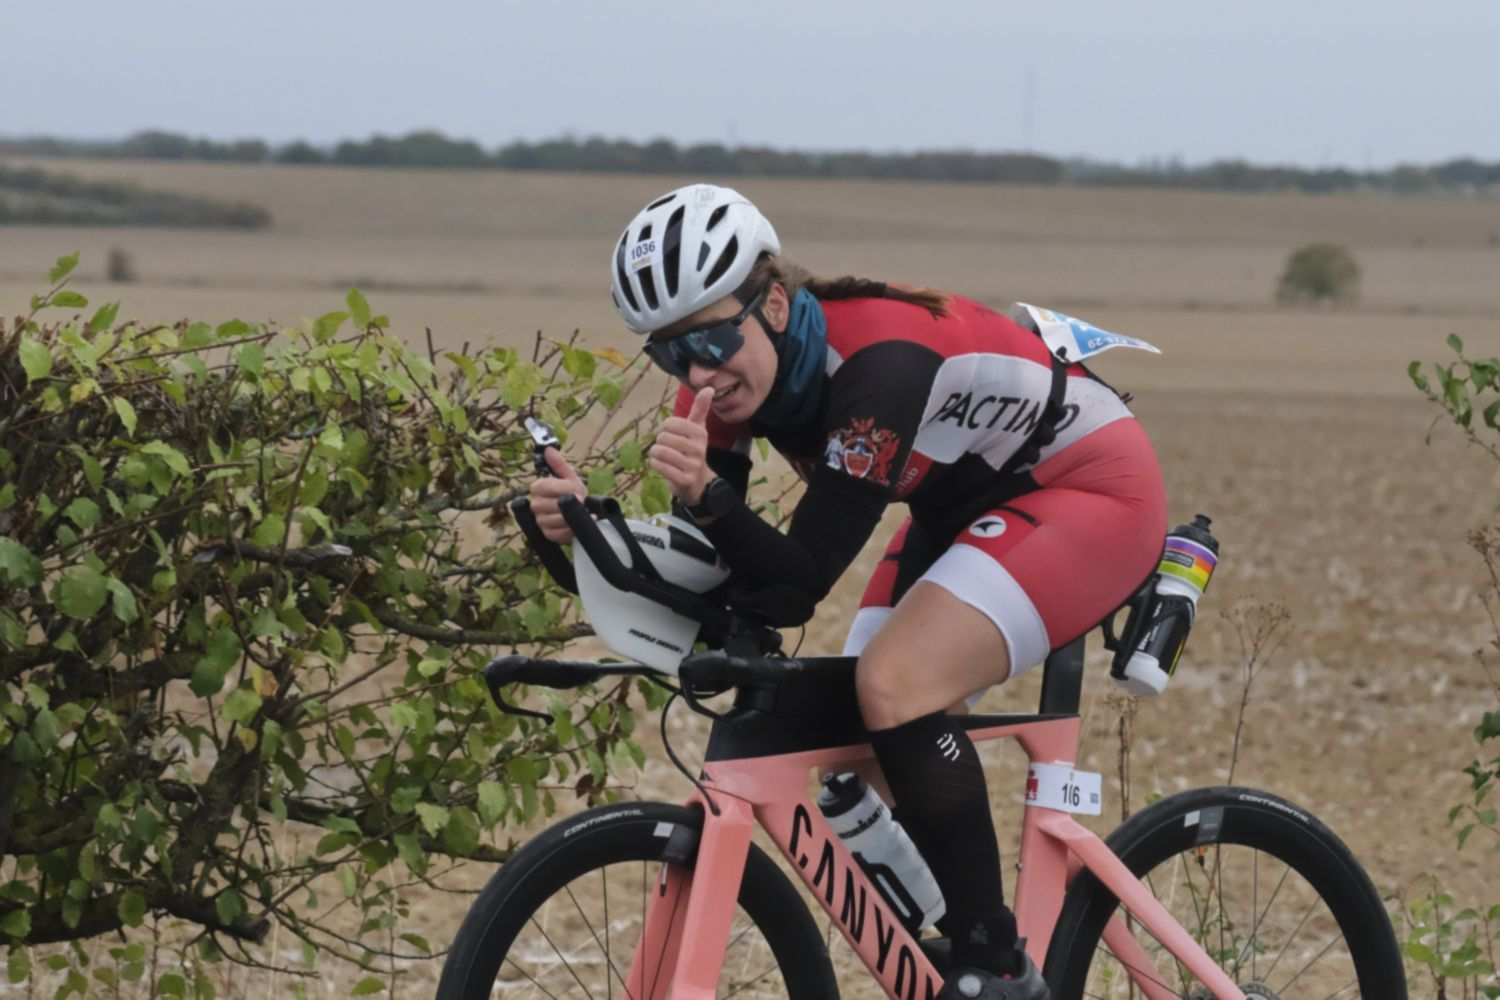
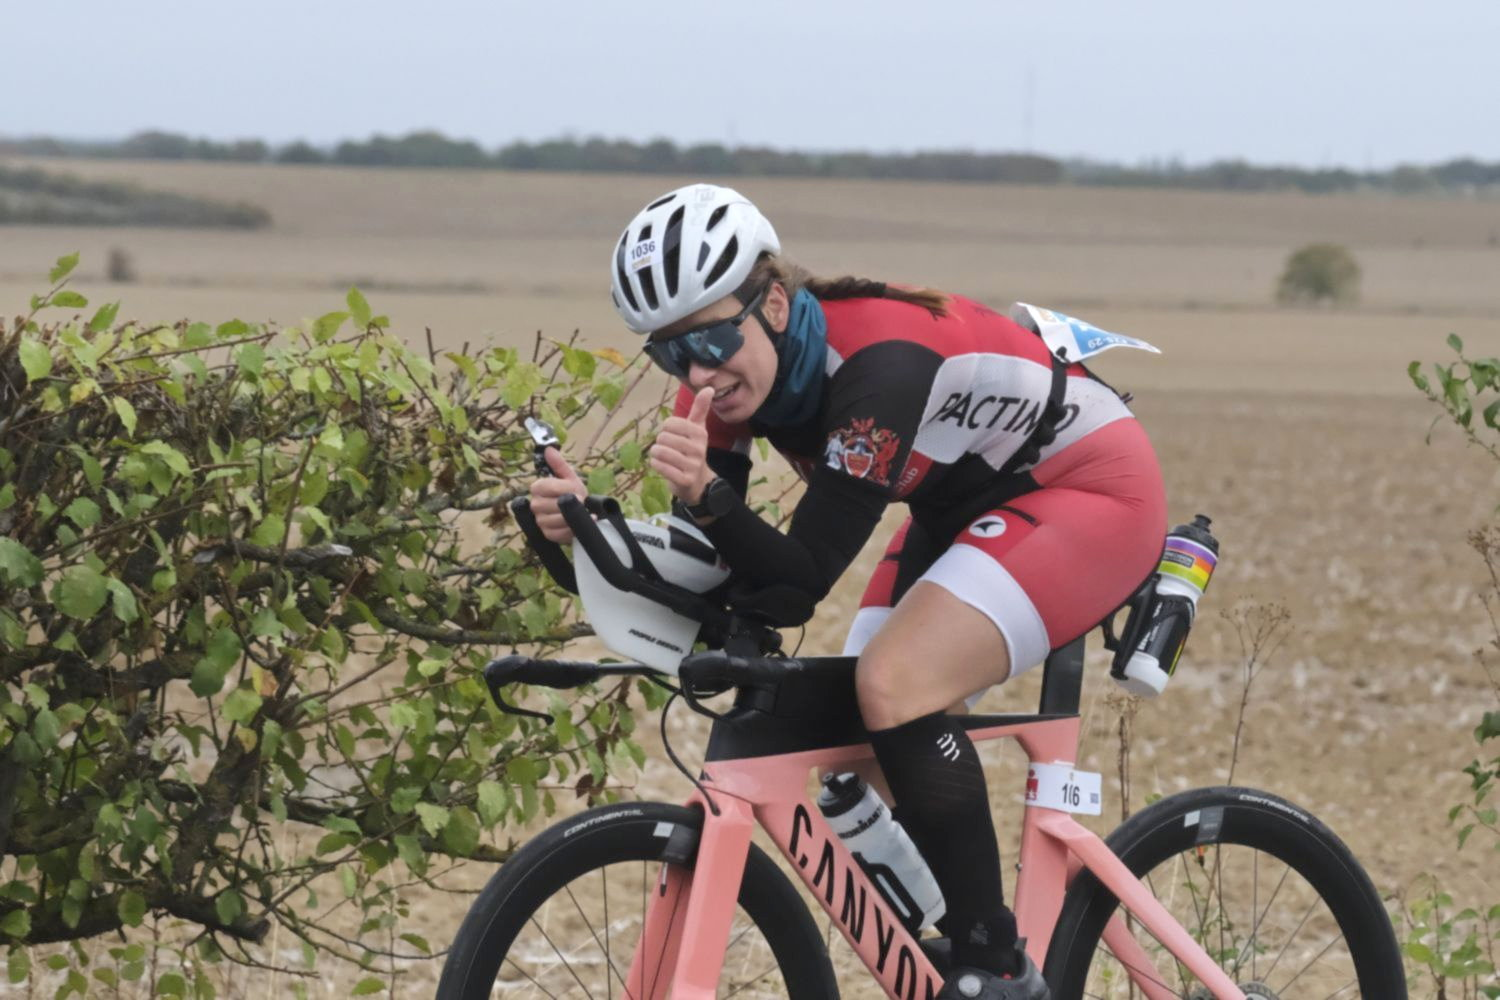
Ajout album mon-album

diff --git a/public/ironwoman/index.html b/public/ironwoman/index.html
@@ -31,7 +31,7 @@
   
 
 
-  <meta property="og:image" content="http://localhost:1313/photojm/ironwoman/20261011%200921%20ironman%20molieres%20_DSF6111_hu_6cb728f59232df73.JPG" />
+  <meta property="og:image" content="http://localhost:1313/photojm/ironwoman/20261011%200921%20ironman%20molieres%20_DSF6111_hu_a074653231ff9492.JPG" />
   
   <link rel="stylesheet" href="/photojm/css/main.min.6031f18919a5919243f3aef7c58df672be3052a45dd4517b8fc728761fda4de4.css" />
   
@@ -123,9 +123,9 @@
       
       
       
-      <a class="gallery-item" href="/photojm/ironwoman/20261011%200921%20ironman%20molieres%20_DSF6111.JPG" data-pswp-src="/photojm/ironwoman/20261011%200921%20ironman%20molieres%20_DSF6111_hu_6cb728f59232df73.JPG" data-pswp-width="1500" data-pswp-height="1000" data-pswp-target="20261011-0921-ironman-molieres-_dsf6111.jpg" title="" itemscope itemtype="https://schema.org/ImageObject" style="aspect-ratio: 600 / 400">
-        <figure style="background-color: #383936; aspect-ratio: 600 / 400">
-          <img class="lazyload" width="600" height="400" data-src="/photojm/ironwoman/20261011%200921%20ironman%20molieres%20_DSF6111_hu_e92e26575bcb6b7e.JPG" alt="" />
+      <a class="gallery-item" href="/photojm/ironwoman/20261011%200921%20ironman%20molieres%20_DSF6111.JPG" data-pswp-src="/photojm/ironwoman/20261011%200921%20ironman%20molieres%20_DSF6111_hu_a074653231ff9492.JPG" data-pswp-width="1500" data-pswp-height="1000" data-pswp-target="20261011-0921-ironman-molieres-_dsf6111.jpg" title="" itemscope itemtype="https://schema.org/ImageObject" style="aspect-ratio: 600 / 400">
+        <figure style="background-color: #3e3f3d; aspect-ratio: 600 / 400">
+          <img class="lazyload" width="600" height="400" data-src="/photojm/ironwoman/20261011%200921%20ironman%20molieres%20_DSF6111_hu_d86dc09688b511cb.JPG" alt="" />
         </figure>
         <meta itemprop="contentUrl" content="/photojm/ironwoman/20261011%200921%20ironman%20molieres%20_DSF6111.JPG" />
         
@@ -135,9 +135,9 @@
       
       
       
-      <a class="gallery-item" href="/photojm/ironwoman/20261011%200946%20ironman%20molieres%20_DSF6168.JPG" data-pswp-src="/photojm/ironwoman/20261011%200946%20ironman%20molieres%20_DSF6168_hu_5cfcc33a455e756.JPG" data-pswp-width="1500" data-pswp-height="1000" data-pswp-target="20261011-0946-ironman-molieres-_dsf6168.jpg" title="" itemscope itemtype="https://schema.org/ImageObject" style="aspect-ratio: 600 / 400">
-        <figure style="background-color: #383739; aspect-ratio: 600 / 400">
-          <img class="lazyload" width="600" height="400" data-src="/photojm/ironwoman/20261011%200946%20ironman%20molieres%20_DSF6168_hu_36d18c74547d44af.JPG" alt="" />
+      <a class="gallery-item" href="/photojm/ironwoman/20261011%200946%20ironman%20molieres%20_DSF6168.JPG" data-pswp-src="/photojm/ironwoman/20261011%200946%20ironman%20molieres%20_DSF6168_hu_2db0fdb0e8911fc3.JPG" data-pswp-width="1500" data-pswp-height="1000" data-pswp-target="20261011-0946-ironman-molieres-_dsf6168.jpg" title="" itemscope itemtype="https://schema.org/ImageObject" style="aspect-ratio: 600 / 400">
+        <figure style="background-color: #c8c5c0; aspect-ratio: 600 / 400">
+          <img class="lazyload" width="600" height="400" data-src="/photojm/ironwoman/20261011%200946%20ironman%20molieres%20_DSF6168_hu_d7f02c6c44e40be.JPG" alt="" />
         </figure>
         <meta itemprop="contentUrl" content="/photojm/ironwoman/20261011%200946%20ironman%20molieres%20_DSF6168.JPG" />
         
@@ -159,9 +159,9 @@
       
       
       
-      <a class="gallery-item" href="/photojm/ironwoman/20261011%200950%20ironman%20molieres%20_DSF6179.JPG" data-pswp-src="/photojm/ironwoman/20261011%200950%20ironman%20molieres%20_DSF6179_hu_eb26d63f47e49dbe.JPG" data-pswp-width="1000" data-pswp-height="1500" data-pswp-target="20261011-0950-ironman-molieres-_dsf6179.jpg" title="" itemscope itemtype="https://schema.org/ImageObject" style="aspect-ratio: 400 / 600">
-        <figure style="background-color: #5f6058; aspect-ratio: 400 / 600">
-          <img class="lazyload" width="400" height="600" data-src="/photojm/ironwoman/20261011%200950%20ironman%20molieres%20_DSF6179_hu_fa6df166ac8f167b.JPG" alt="" />
+      <a class="gallery-item" href="/photojm/ironwoman/20261011%200950%20ironman%20molieres%20_DSF6179.JPG" data-pswp-src="/photojm/ironwoman/20261011%200950%20ironman%20molieres%20_DSF6179_hu_a2a75d422234f429.JPG" data-pswp-width="1000" data-pswp-height="1500" data-pswp-target="20261011-0950-ironman-molieres-_dsf6179.jpg" title="" itemscope itemtype="https://schema.org/ImageObject" style="aspect-ratio: 400 / 600">
+        <figure style="background-color: #9d9a98; aspect-ratio: 400 / 600">
+          <img class="lazyload" width="400" height="600" data-src="/photojm/ironwoman/20261011%200950%20ironman%20molieres%20_DSF6179_hu_757b8cec4b55d5b4.JPG" alt="" />
         </figure>
         <meta itemprop="contentUrl" content="/photojm/ironwoman/20261011%200950%20ironman%20molieres%20_DSF6179.JPG" />
         
@@ -171,9 +171,9 @@
       
       
       
-      <a class="gallery-item" href="/photojm/ironwoman/20261011%201007%20ironman%20molieres%20_DSF6249.JPG" data-pswp-src="/photojm/ironwoman/20261011%201007%20ironman%20molieres%20_DSF6249_hu_3c25486c28d4eb46.JPG" data-pswp-width="1500" data-pswp-height="1000" data-pswp-target="20261011-1007-ironman-molieres-_dsf6249.jpg" title="" itemscope itemtype="https://schema.org/ImageObject" style="aspect-ratio: 600 / 400">
-        <figure style="background-color: #444134; aspect-ratio: 600 / 400">
-          <img class="lazyload" width="600" height="400" data-src="/photojm/ironwoman/20261011%201007%20ironman%20molieres%20_DSF6249_hu_12107062e574310f.JPG" alt="" />
+      <a class="gallery-item" href="/photojm/ironwoman/20261011%201007%20ironman%20molieres%20_DSF6249.JPG" data-pswp-src="/photojm/ironwoman/20261011%201007%20ironman%20molieres%20_DSF6249_hu_58cb2e35ddf58134.JPG" data-pswp-width="1500" data-pswp-height="1000" data-pswp-target="20261011-1007-ironman-molieres-_dsf6249.jpg" title="" itemscope itemtype="https://schema.org/ImageObject" style="aspect-ratio: 600 / 400">
+        <figure style="background-color: #b8b3b2; aspect-ratio: 600 / 400">
+          <img class="lazyload" width="600" height="400" data-src="/photojm/ironwoman/20261011%201007%20ironman%20molieres%20_DSF6249_hu_a1111a1e8bf06b80.JPG" alt="" />
         </figure>
         <meta itemprop="contentUrl" content="/photojm/ironwoman/20261011%201007%20ironman%20molieres%20_DSF6249.JPG" />
         

diff --git a/public/index.html b/public/index.html
@@ -61,8 +61,8 @@
       
 
   <a class="card" href="/photojm/ironwoman/" title="Ironman">
-    <figure style="background-color: #383936">
-      <img class="lazyload" width="600" height="400" data-src="/photojm/ironwoman/20261011%200921%20ironman%20molieres%20_DSF6111_hu_e92e26575bcb6b7e.JPG" alt="Ironman" />
+    <figure style="background-color: #3e3f3d">
+      <img class="lazyload" width="600" height="400" data-src="/photojm/ironwoman/20261011%200921%20ironman%20molieres%20_DSF6111_hu_d86dc09688b511cb.JPG" alt="Ironman" />
     </figure>
     <div>
       <h2>Ironman</h2>
